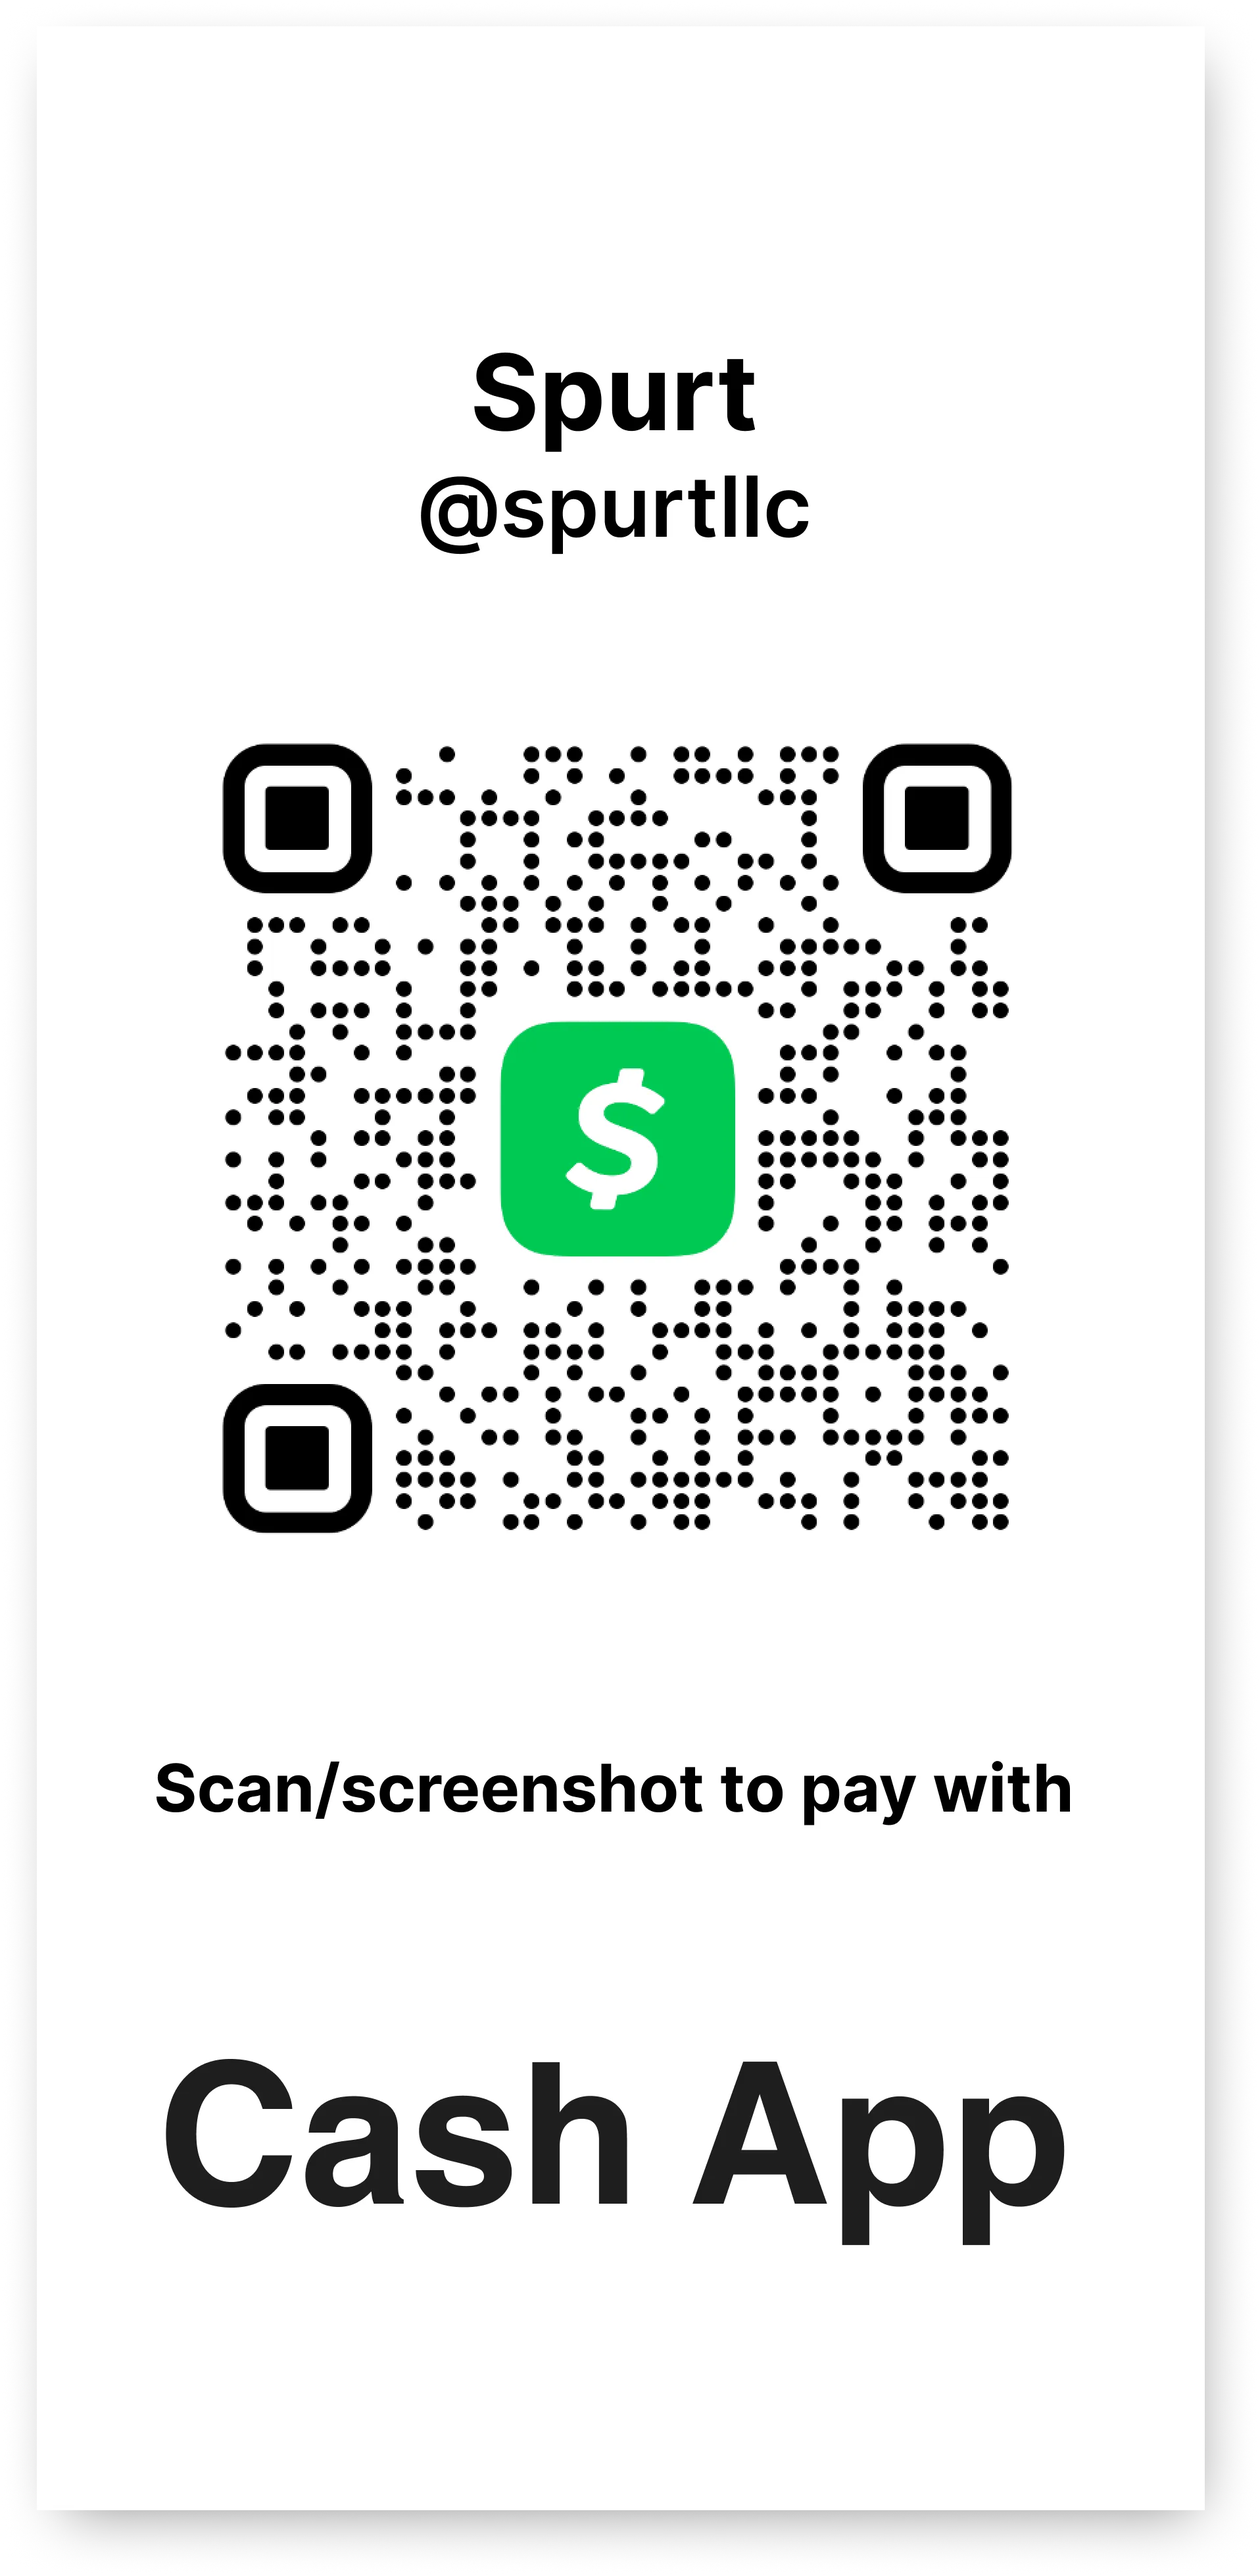
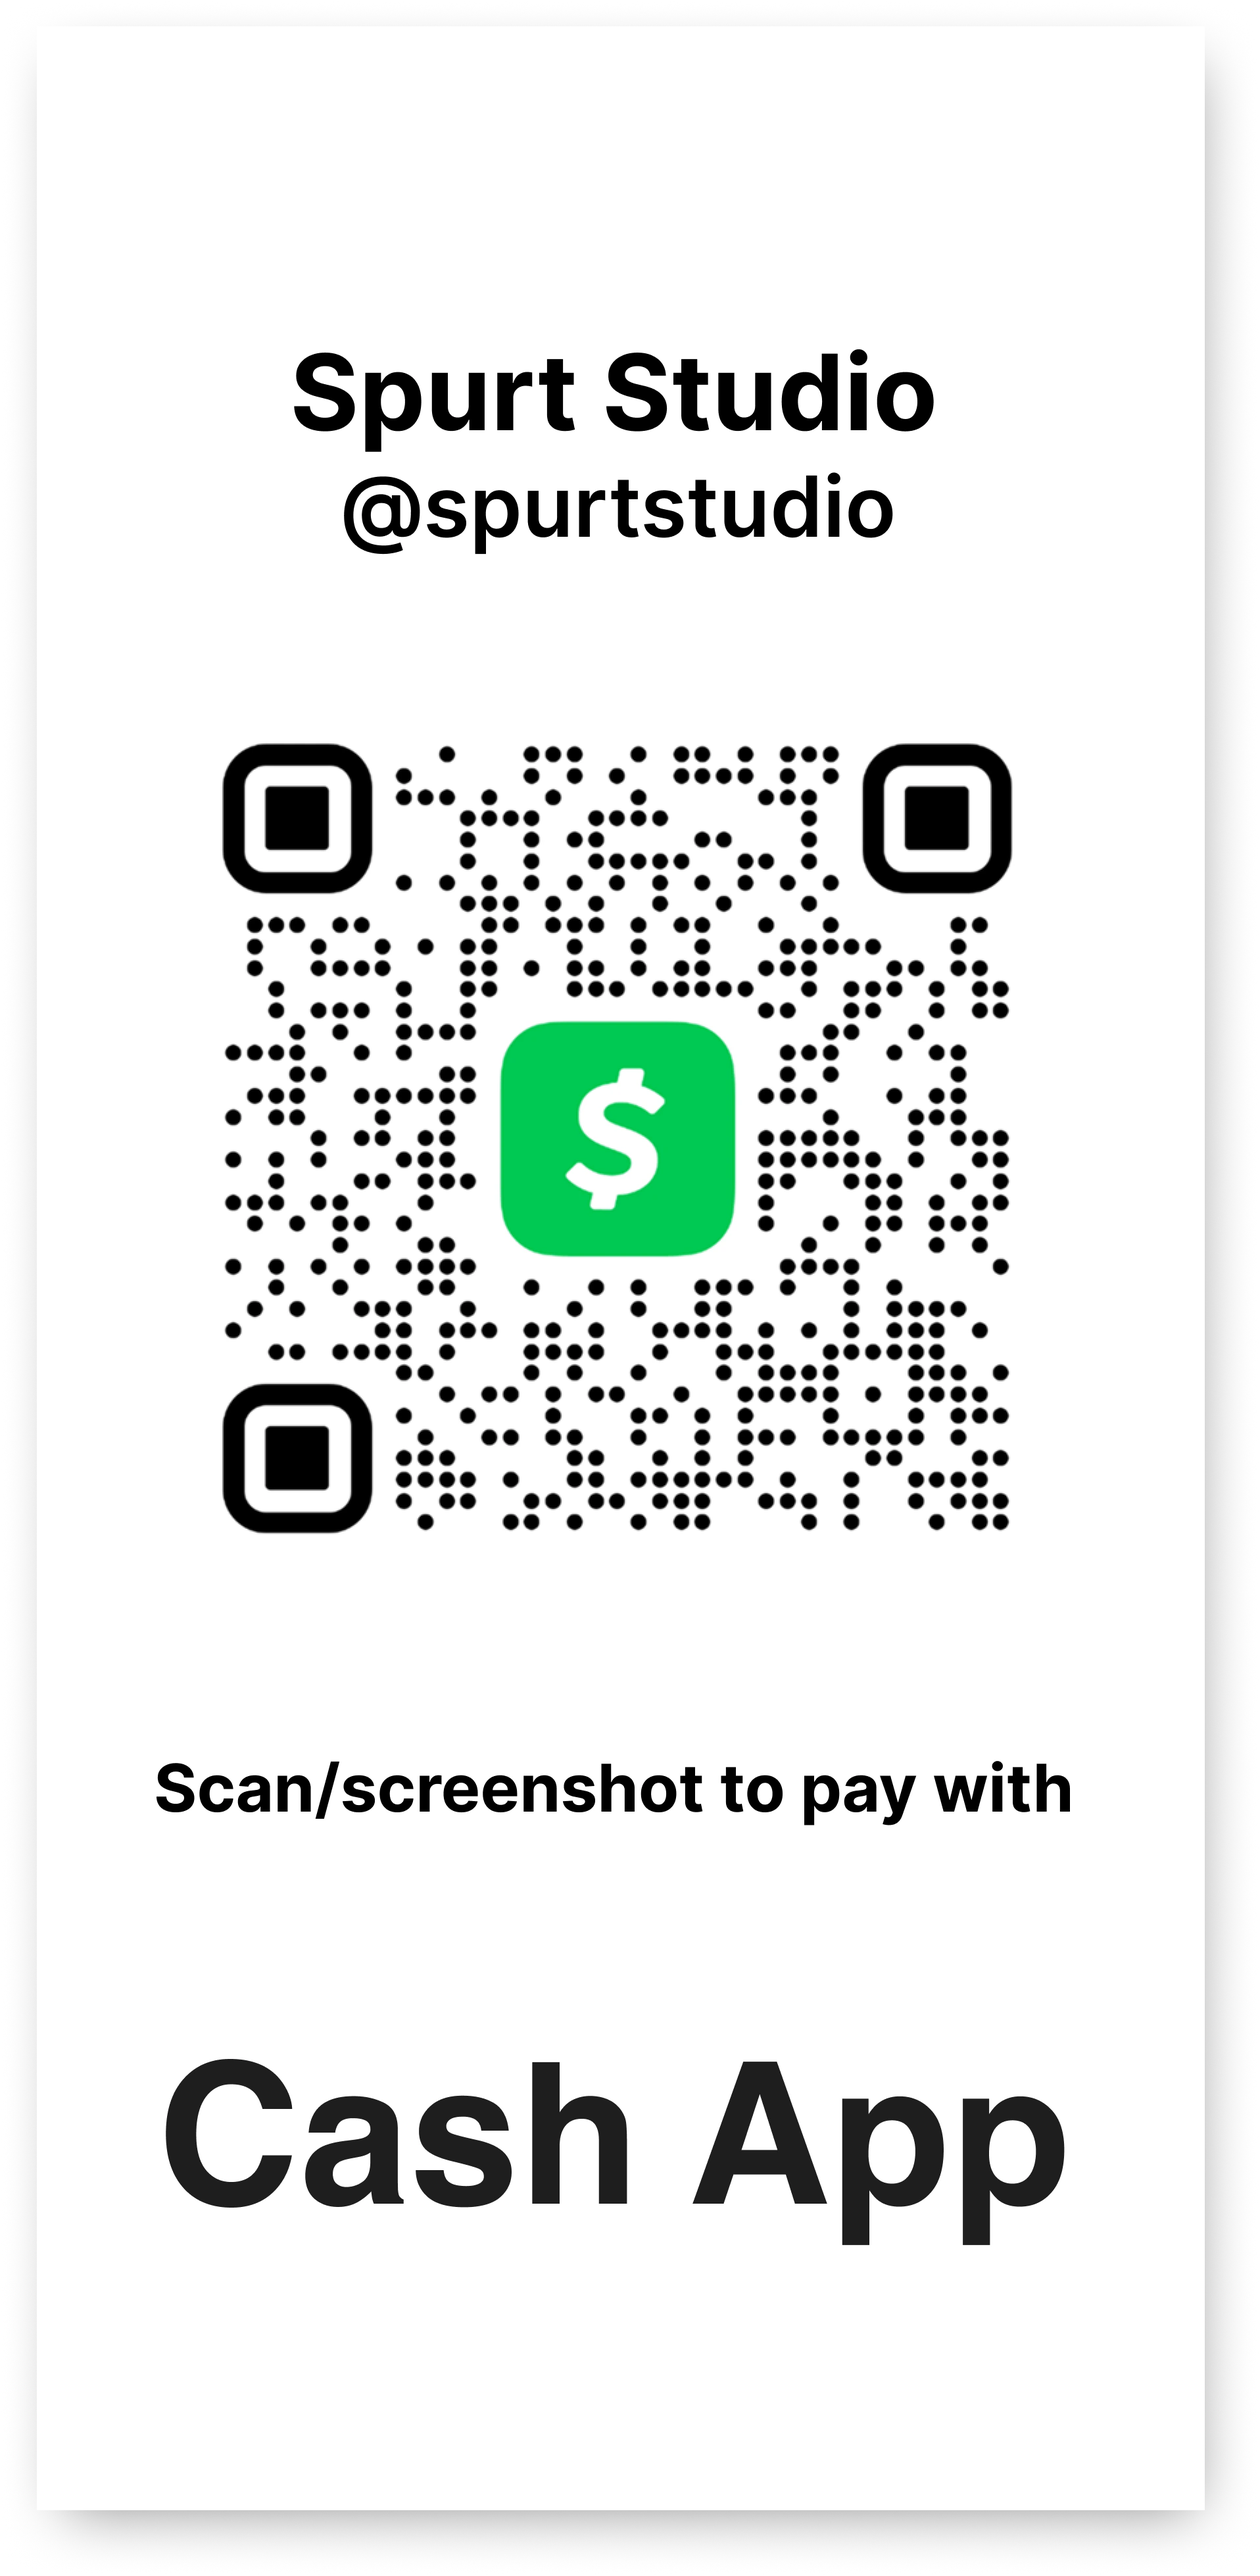
updates

diff --git a/payment.html b/payment.html
@@ -146,7 +146,7 @@
             5. Upload the image of the QR code.<br> 
             6. Follow the instructions on the screen.<br></p>
 
-            *Alternative option* You can always type in <b>spurtllc</b> in the desired application.
+            *Alternative option* You can always type in <b>Spurt Studio</b> in the desired application.
 
           <!-- </div><img src="images/aboutmeelijah.jpg" alt="" srcset="images/aboutmeelijah.jpg, images/aboutmeelijah.jpg, images/aboutmeelijah.jpg, images/aboutmeelijah.jpg, images/aboutmeelijah.jpg, images/aboutmeelijah.jpg" sizes="(max-width: 479px) 100vw, (max-width: 767px) 95vw, (max-width: 991px) 96vw, 91vw" class="content-big-photo"> -->
           <div class="page-content-block">
